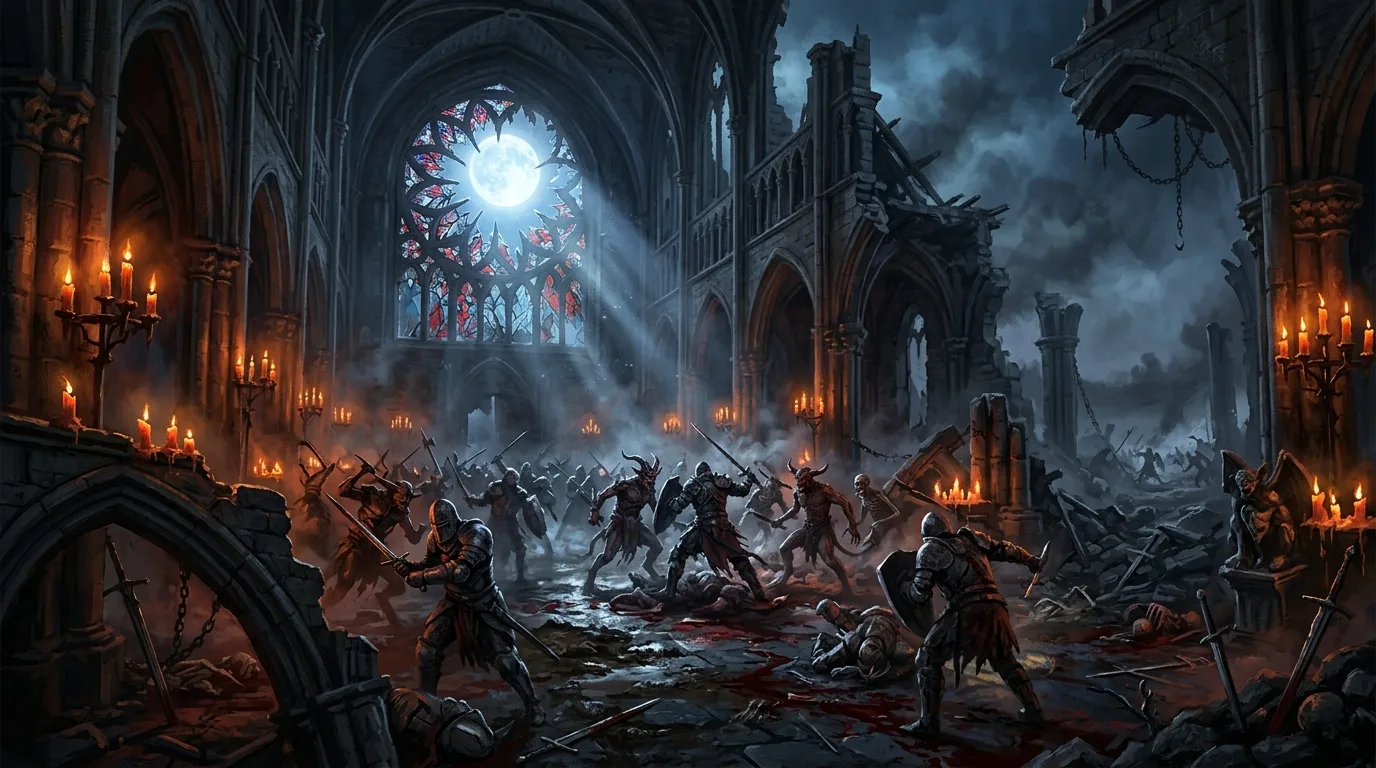
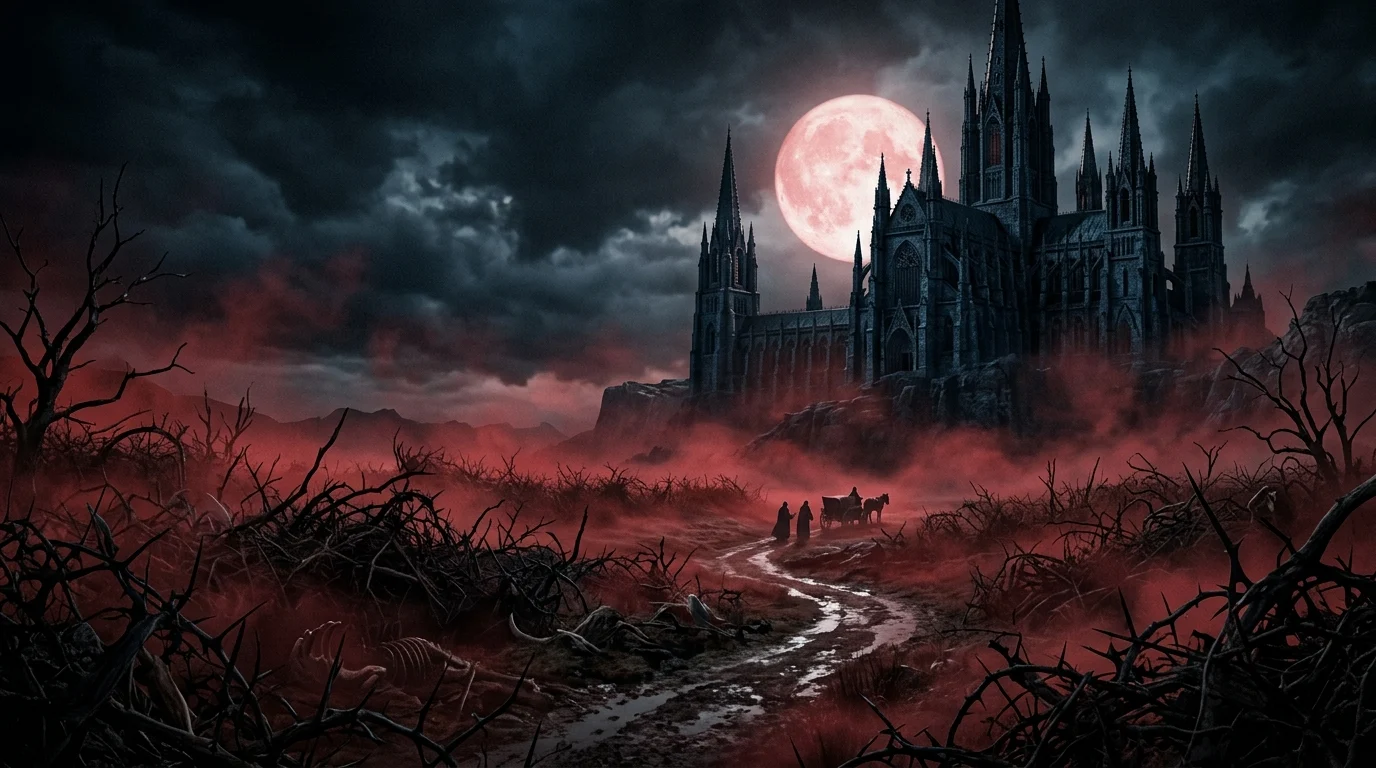
feat(ui): unify close buttons to top-right, enhance vibrant act battlefields, and add massive wide boss portrait HUD

diff --git a/src/components/views/battle/BossHUD.tsx b/src/components/views/battle/BossHUD.tsx
@@ -4,9 +4,30 @@ import { getActTheme } from '../../../utils/actThemes';
 import { Crown, Shield, Flame, Skull, Swords, AlertTriangle, Zap, Sparkles, Target, ShieldAlert } from 'lucide-react';
 import { BossPixelPortrait } from '../../fx/BossPixelPortrait';
 
+const getBossIllustration = (bossName: string, dungeonId: string): string => {
+  const n = bossName.toLowerCase();
+  const d = dungeonId.toLowerCase();
+  if (n.includes('안다리엘') || n.includes('andariel') || d.includes('act1') || d.includes('cathedral')) {
+    return '/images/ui/boss_andariel.webp';
+  }
+  if (n.includes('듀리엘') || n.includes('duriel') || d.includes('act2') || d.includes('tomb')) {
+    return '/images/ui/boss_duriel.webp';
+  }
+  if (n.includes('메피스토') || n.includes('mephisto') || d.includes('act3') || d.includes('kurast') || d.includes('durance')) {
+    return '/images/ui/boss_mephisto.webp';
+  }
+  if (n.includes('디아블로') || n.includes('diablo') || d.includes('act4') || d.includes('chaos')) {
+    return '/images/ui/boss_diablo.webp';
+  }
+  if (n.includes('바알') || n.includes('baal') || d.includes('act5') || d.includes('worldstone')) {
+    return '/images/ui/boss_baal.webp';
+  }
+  return '/images/ui/boss_diablo.webp';
+};
+
 /**
  * BossHUD — Dedicated high-impact boss battle HUD.
- * Features distinct abyssal crimson/purple health bar, stagger break gauge, weak lane targeting, and enrage state.
+ * Features massive wide boss illustration banner, abyssal health bar, stagger break gauge, weak lane targeting, and enrage state.
  */
 export const BossHUD: React.FC = React.memo(() => {
   const {
@@ -23,6 +44,11 @@ export const BossHUD: React.FC = React.memo(() => {
   const isBossRoom = currentRoom?.type === 'boss';
   const boss = monsters.find(m => m.rank === 'boss' && m.hp > 0);
   const actTheme = useMemo(() => getActTheme(currentDungeon.id), [currentDungeon.id]);
+
+  const bossArtwork = useMemo(() => {
+    if (!boss) return '/images/ui/boss_diablo.webp';
+    return getBossIllustration(boss.name, currentDungeon.id);
+  }, [boss?.name, currentDungeon.id]);
 
   if (!isBossRoom || !boss) return null;
 
@@ -92,51 +118,69 @@ export const BossHUD: React.FC = React.memo(() => {
 
   return (
     <div
-      className={`relative rounded-lg border p-1 sm:p-1.5 shadow-xl transition-all duration-300 overflow-hidden flex-shrink-0 mb-1 ${
-
+      className={`relative rounded-xl border-2 p-1.5 sm:p-2 shadow-2xl transition-all duration-300 overflow-hidden flex-shrink-0 mb-1 select-none ${
         isGroggy
-          ? 'bg-yellow-950/90 border-yellow-400 ring-1 ring-yellow-400/80 animate-pulse'
+          ? 'bg-yellow-950/90 border-yellow-400 ring-2 ring-yellow-400/80 shadow-[0_0_30px_rgba(251,191,36,0.6)] animate-pulse'
           : isCharging
-          ? 'bg-red-950 border-red-500 ring-1 ring-red-500/90 animate-pulse'
+          ? 'bg-red-950 border-red-500 ring-2 ring-red-500/90 shadow-[0_0_30px_rgba(239,68,68,0.7)] animate-pulse'
           : isEnraged
-          ? 'bg-red-950/90 border-red-800'
+          ? 'bg-red-950/90 border-red-600 shadow-[0_0_20px_rgba(220,38,38,0.5)]'
           : bossGuardActive
           ? 'bg-blue-950/90 border-blue-600'
-          : 'bg-iron-950/95 border-iron-800'
+          : 'bg-iron-950 border-brass-600/60 shadow-[0_0_20px_rgba(0,0,0,0.8)]'
       }`}
     >
-      {/* Horizontal Ultra-Compact Layout: Left Avatar | Center HP/Break | Right Weakness/Intent */}
-      <div className="flex items-center gap-2">
-        {/* Left: Compact Boss Portrait (40px) */}
+      {/* 👹 Massive Wide Boss Background Artwork Layer */}
+      <div
+        className={`absolute inset-0 bg-cover bg-right sm:bg-center transition-all duration-500 pointer-events-none filter contrast-125 ${
+          isGroggy
+            ? 'opacity-45 brightness-125 saturate-150'
+            : isCharging
+            ? 'opacity-55 brightness-125 saturate-200'
+            : isEnraged
+            ? 'opacity-40 brightness-110 saturate-150'
+            : 'opacity-35 brightness-95 saturate-125'
+        }`}
+        style={{ backgroundImage: `url(${bossArtwork})` }}
+      />
+      {/* Dark Vignette Overlay for Content Readability */}
+      <div className="absolute inset-0 bg-gradient-to-r from-iron-950 via-iron-950/80 to-transparent pointer-events-none" />
+
+      {/* Horizontal Layout: Left Boss Portrait | Center HP/Break | Right Weakness/Intent */}
+      <div className="relative z-10 flex items-center gap-2 sm:gap-3">
+        {/* Left: High-Presence Boss Portrait (48px) */}
         <div
           onClick={() => setPlayerLane(boss.lane)}
-          className={`relative flex-shrink-0 w-10 h-10 rounded-lg flex items-center justify-center border transition transform hover:scale-105 cursor-pointer overflow-hidden p-0.5 ${
+          className={`relative flex-shrink-0 w-12 h-12 rounded-xl flex items-center justify-center border-2 transition transform hover:scale-105 cursor-pointer overflow-hidden shadow-lg p-0.5 ${
             isGroggy
-              ? 'bg-yellow-950 border-yellow-400'
+              ? 'bg-yellow-950 border-yellow-400 ring-2 ring-yellow-300'
               : isCharging
-              ? 'bg-red-950 border-red-400 ring-1 ring-red-400 animate-pulse'
-              : 'bg-iron-950 border-amber-500/60'
+              ? 'bg-red-950 border-red-400 ring-2 ring-red-500 animate-pulse'
+              : isEnraged
+              ? 'bg-red-950 border-red-500'
+              : 'bg-iron-950 border-amber-400/80'
           }`}
-          title="클릭 시 보스 전면 레인으로 조준"
+          title="클릭 시 보스 전면 레인으로 즉시 조준"
         >
-          <BossPixelPortrait
-            name={boss.name}
-            element={boss.element}
-            signatureKey={boss.bossSignatureKey}
-            isEnraged={isEnraged}
-            isGroggy={isGroggy}
-            isCharging={isCharging}
-            size={36}
+          <img
+            src={bossArtwork}
+            alt={boss.name}
+            className="w-full h-full object-cover rounded-lg filter contrast-125"
           />
           {isCharging && (
-            <span className="absolute bottom-0 inset-x-0 text-[7px] bg-red-600 text-white font-black text-center leading-tight">
+            <span className="absolute bottom-0 inset-x-0 text-[8px] bg-red-600 text-white font-black text-center leading-tight tracking-wider shadow">
               CAST
+            </span>
+          )}
+          {isEnraged && !isCharging && (
+            <span className="absolute bottom-0 inset-x-0 text-[7px] bg-red-800/90 text-amber-300 font-bold text-center leading-tight">
+              광폭
             </span>
           )}
         </div>
 
-        {/* Center: Name & Compact HP Bar & Stagger */}
-        <div className="flex-1 min-w-0 space-y-0.5">
+        {/* Center: Name & Abyssal Health Bar & Stagger */}
+        <div className="flex-1 min-w-0 space-y-1">
           {/* Boss Name + Element + Intent Chips */}
           <div className="flex items-center justify-between gap-1 leading-none">
             <div className="flex items-center gap-1 min-w-0">

diff --git a/src/components/modals/InventoryModal.tsx b/src/components/modals/InventoryModal.tsx
@@ -429,20 +429,10 @@ export const InventoryModal: React.FC = () => {
   return (
     <div className="bg-iron-950 border-2 border-brass-500 rounded-xl p-2.5 sm:p-3 w-full max-w-5xl h-[96dvh] max-h-[96dvh] overflow-hidden flex flex-col shadow-[0_0_40px_rgba(251,191,36,0.2)] text-xs md:text-sm select-none font-sans ui-ornate">
       
-      {/* ═══ Header & Mode Tabs (Left: Close + Tabs / Right: Bulk Sell + Auto Equip) ═══ */}
+      {/* ═══ Header & Mode Tabs (Left: Main Tabs / Right: Actions + Close X) ═══ */}
       <div className="bg-iron-950 pb-2 border-b border-iron-750 flex items-center justify-between gap-2 flex-shrink-0 flex-wrap">
-        {/* Left: Close Button + Main Tabs */}
+        {/* Left: Main Mode Tabs */}
         <div className="flex items-center gap-2 flex-wrap">
-          <button
-            onClick={closeModal}
-            className="text-gray-300 hover:text-white p-1.5 rounded-lg hover:bg-iron-800 bg-iron-900 border border-iron-750 transition cursor-pointer flex items-center justify-center shadow group"
-            aria-label="닫기"
-            title="인벤토리 닫기 (Esc)"
-          >
-            <X className="w-4 h-4 text-gray-300 group-hover:text-amber-400 transition-colors" />
-          </button>
-
-          {/* Main Mode Tabs */}
           <div className="flex bg-iron-900 p-0.5 rounded-lg border border-iron-750 font-cinzel font-bold text-xs">
             <button
               onClick={() => setActiveTab('equipment')}
@@ -498,7 +488,7 @@ export const InventoryModal: React.FC = () => {
           </div>
         </div>
 
-        {/* Right: Bulk Sell Normal/Magic + Quick Auto-Equip */}
+        {/* Right: Bulk Sell + Quick Auto-Equip + [X] Close Button */}
         <div className="flex items-center gap-1.5 flex-wrap">
           {!isCombatMode && (
             <button
@@ -538,6 +528,16 @@ export const InventoryModal: React.FC = () => {
               전투 중 (조회)
             </span>
           )}
+
+          {/* Unified Top-Right Close Button */}
+          <button
+            onClick={closeModal}
+            className="text-gray-300 hover:text-white p-1.5 rounded-lg hover:bg-iron-800 bg-iron-900 border border-iron-750 transition cursor-pointer flex items-center justify-center shadow group ml-1"
+            aria-label="닫기"
+            title="인벤토리 닫기 (Esc)"
+          >
+            <X className="w-4 h-4 text-gray-300 group-hover:text-amber-400 transition-colors" />
+          </button>
         </div>
       </div>
 

diff --git a/src/components/views/BattleView.tsx b/src/components/views/BattleView.tsx
@@ -41,6 +41,15 @@ export const BattleView: React.FC = React.memo(() => {
     return '/images/ui/battle_act1_cathedral.webp';
   }, [currentDungeon.id]);
 
+  const actAmbientGlow = useMemo(() => {
+    const id = currentDungeon.id || '';
+    if (id.startsWith('act5') || id.includes('worldstone')) return 'shadow-[inset_0_0_80px_rgba(59,130,246,0.25)] border-blue-900/60';
+    if (id.startsWith('act4') || id.includes('chaos')) return 'shadow-[inset_0_0_80px_rgba(239,68,68,0.25)] border-red-900/60';
+    if (id.startsWith('act3') || id.includes('kurast') || id.includes('mephisto')) return 'shadow-[inset_0_0_80px_rgba(16,185,129,0.25)] border-emerald-900/60';
+    if (id.startsWith('act2') || id.includes('tomb') || id.includes('desert') || id.includes('duriel')) return 'shadow-[inset_0_0_80px_rgba(245,158,11,0.25)] border-amber-900/60';
+    return 'shadow-[inset_0_0_80px_rgba(185,28,28,0.25)] border-rose-950/80';
+  }, [currentDungeon.id]);
+
   const [dyingMonsterIds, setDyingMonsterIds] = useState<Set<string>>(new Set());
 
   // Life & Rage floating feedback tracking
@@ -134,14 +143,14 @@ export const BattleView: React.FC = React.memo(() => {
   const strikeShake = '';
 
   return (
-    <div className={`w-full max-w-6xl mx-auto h-full flex-1 flex flex-col justify-between transition-colors duration-500 rounded-xl p-1 sm:p-1.5 ${actTheme.bgGradient} overflow-hidden select-none font-sans relative`}>
+    <div className={`w-full max-w-6xl mx-auto h-full flex-1 flex flex-col justify-between transition-colors duration-500 rounded-xl p-1 sm:p-1.5 ${actTheme.bgGradient} ${actAmbientGlow} border overflow-hidden select-none font-sans relative`}>
 
       {/* 🌌 High-Resolution Dynamic Act Battlefield Background Art */}
       <div 
-        className="absolute inset-0 bg-cover bg-center opacity-25 pointer-events-none transition-all duration-700 filter saturate-125"
+        className="absolute inset-0 bg-cover bg-center opacity-40 pointer-events-none transition-all duration-700 filter saturate-125 contrast-110"
         style={{ backgroundImage: `url(${actBgImage})` }}
       />
-      <div className="absolute inset-0 bg-gradient-to-b from-iron-950/80 via-transparent to-iron-950/95 pointer-events-none" />
+      <div className="absolute inset-0 bg-gradient-to-b from-iron-950/70 via-transparent to-iron-950/90 pointer-events-none" />
 
       {/* Low HP Gentle Vignette (Restful to eyes) */}
       {isLowHp && (
